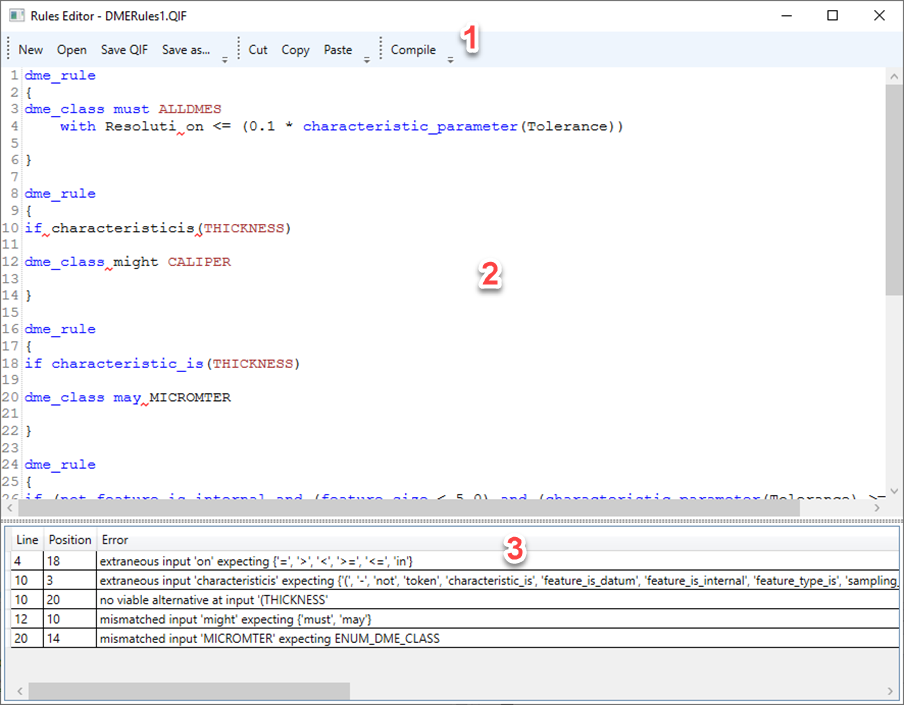
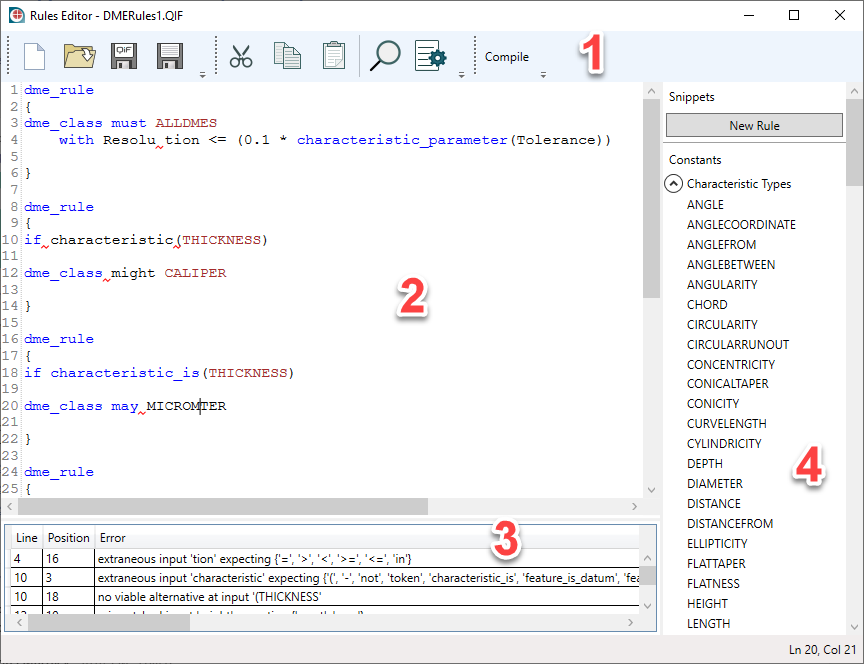
Readme update

diff --git a/README.md b/README.md
@@ -39,11 +39,12 @@ Currently, error checking is triggered manually by clicking on the "Compile" but
 
 ## Interface Overview
 
-The UI consists of 3 main parts: 
+The UI consists of 4 main parts: 
 
 1. Toolbar
 2. Text Editor
 3. Error list window
+4. Snippets panel
 
 ![](doc/img/ui-err.png)
 
@@ -89,6 +90,10 @@ The QIF Rules Editor is easy to build. All the dependencies are set up as NuGet 
 Copyright 2018-2020, Capvidia, Metrosage, and project contributors
 
 https://www.capvidia.com/
+
+## Acknowledgements
+
+This effort was developed with assitance from cooperative agreement 70NANB18H171 between the National Institute of Standards and Technology (NIST) and Metrosage, and with assistance from Capvidia. 
 
 ## License
 
